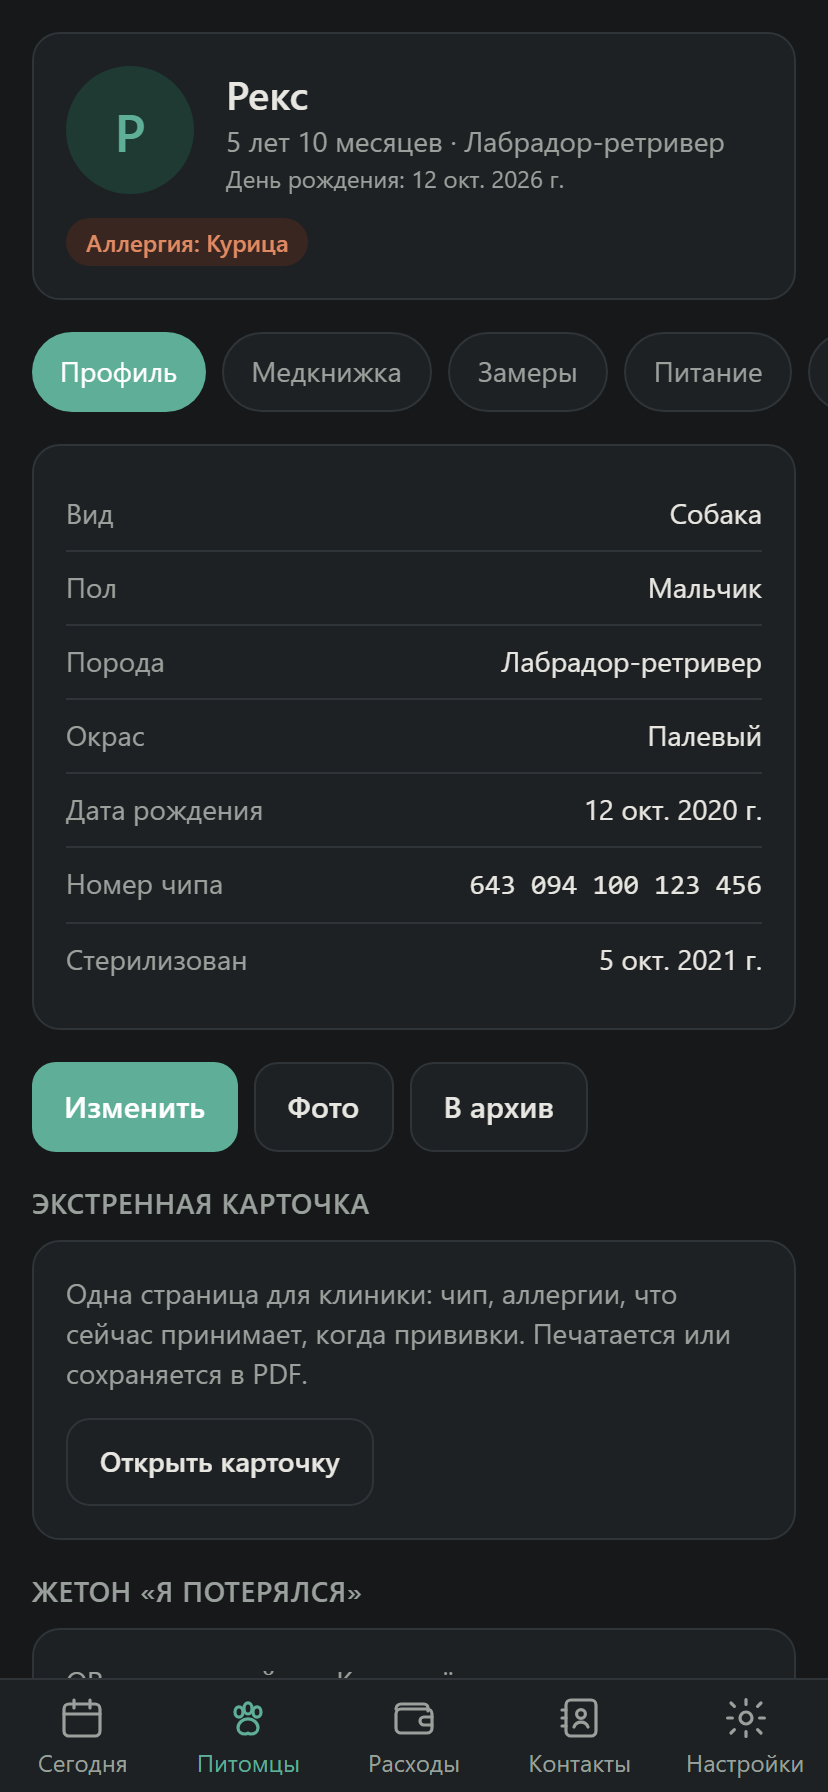
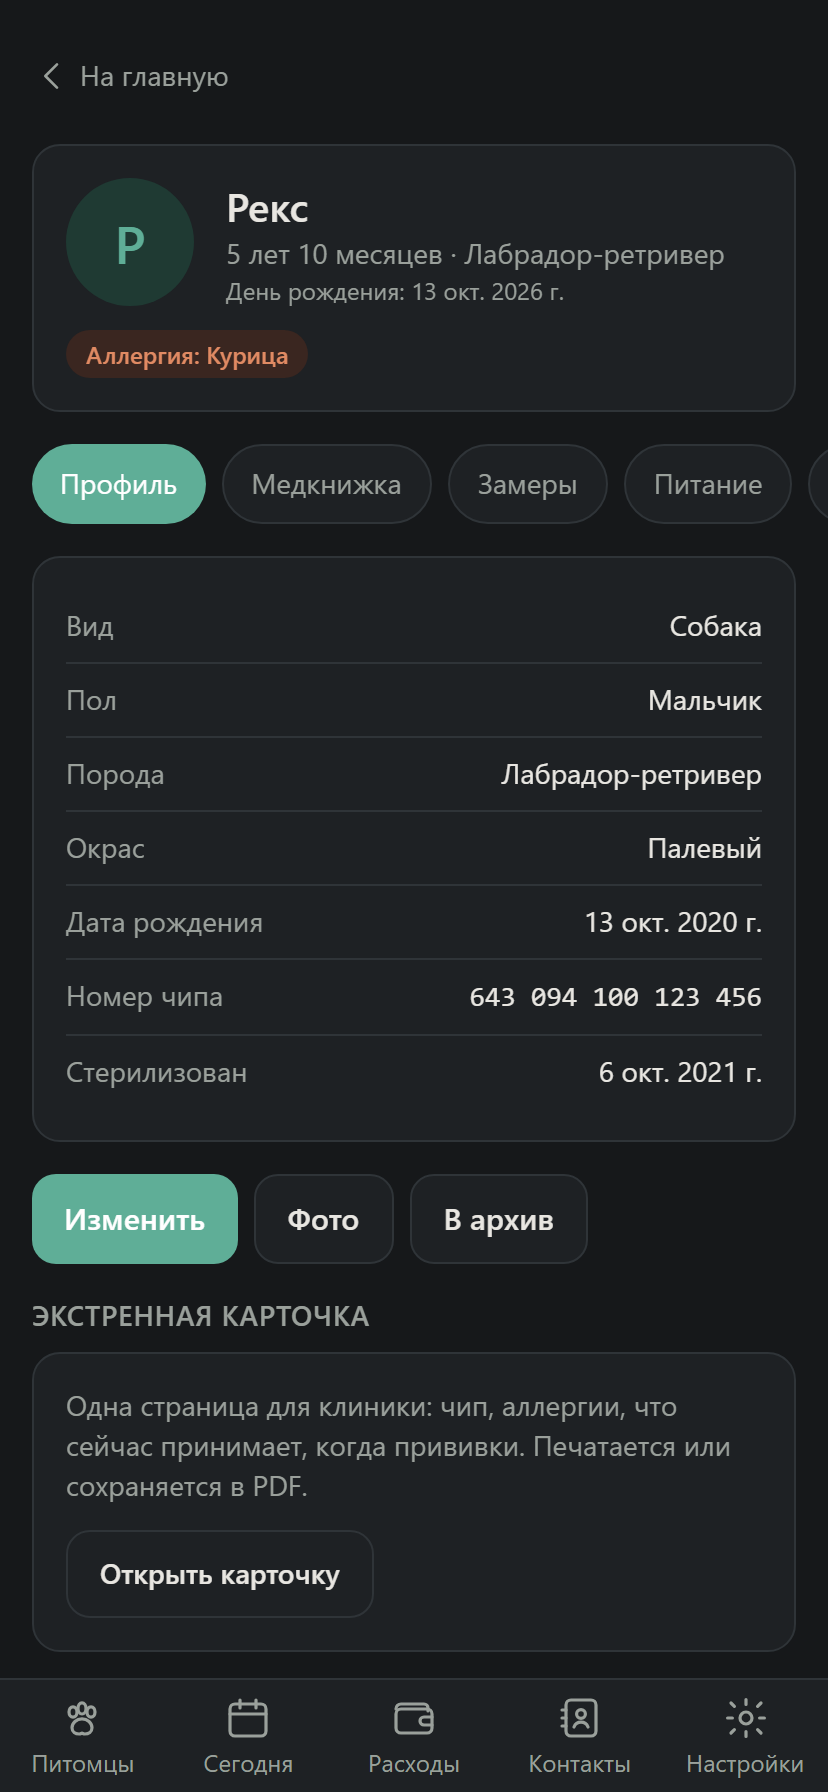
Make the pet list the home screen, with a way back from every other one
The app opened on the agenda, which is a view of the pets rather than the
pets themselves. The list is now at /, the agenda at /agenda, and /pets
redirects so installed shortcuts and bookmarks keep working. The passkey
offer moves with the home screen, and a reminder push opens the agenda
directly, since that is what it is about.

Every other screen — the pet record on all its tabs, Today, Spending,
Contacts, Settings and both print sheets — gets a "Home" link top left.
The bottom bar already has a Pets tab, but three levels into a record it
does not read as "home", and on the print sheets the bar is hidden. On
paper the link is hidden too.

Screenshots re-taken.

Claude-Session: https://claude.ai/code/session_018EMGZ5pTe87ccE7gSSLW4g

diff --git a/apps/web/src/App.tsx b/apps/web/src/App.tsx
@@ -17,8 +17,8 @@ import { CalendarIcon, ContactsIcon, PawIcon, SettingsIcon, WalletIcon } from '.
 
 const TABS: { to: string; key: MessageKey; Icon: (props: { className?: string }) => ReactNode }[] =
   [
-    { to: '/', key: 'nav.agenda', Icon: CalendarIcon },
-    { to: '/pets', key: 'nav.pets', Icon: PawIcon },
+    { to: '/', key: 'nav.pets', Icon: PawIcon },
+    { to: '/agenda', key: 'nav.agenda', Icon: CalendarIcon },
     { to: '/expenses', key: 'nav.expenses', Icon: WalletIcon },
     { to: '/contacts', key: 'nav.contacts', Icon: ContactsIcon },
     { to: '/settings', key: 'nav.settings', Icon: SettingsIcon },
@@ -66,8 +66,11 @@ function SignedInApp(): ReactNode {
       {/* Space at the bottom keeps the last row clear of the navigation bar. */}
       <main className="mx-auto w-full max-w-3xl px-4 pt-4 pb-28">
         <Routes>
-          <Route path="/" element={<AgendaPage />} />
-          <Route path="/pets" element={<PetsPage />} />
+          {/* The pet list is home: it is what the app is about, and where a record starts. */}
+          <Route path="/" element={<PetsPage />} />
+          <Route path="/agenda" element={<AgendaPage />} />
+          {/* The list used to live here; old bookmarks and installed shortcuts still do. */}
+          <Route path="/pets" element={<Navigate to="/" replace />} />
           <Route path="/pets/:petId/print/tag" element={<TagPrintPage />} />
           <Route path="/pets/:petId/print/card" element={<CardPrintPage />} />
           <Route path="/pets/:petId/*" element={<PetPage />} />

diff --git a/apps/web/src/pages/pet/PrintPages.tsx b/apps/web/src/pages/pet/PrintPages.tsx
@@ -10,6 +10,7 @@ import type {
 } from '../../api/types';
 import { useResource, useToday } from '../../app/hooks';
 import { useSession, useUser } from '../../app/session';
+import { BackHome } from '../../components/BackHome';
 import { QrCode } from '../../components/QrCode';
 import { formatAge, formatDate } from '../../lib/format';
 import type { MessageKey } from '../../lib/i18n';
@@ -55,6 +56,8 @@ export function TagPrintPage(): ReactNode {
 
   return (
     <div className="print-sheet mx-auto max-w-md p-8 text-center">
+      {/* On screen only: the print stylesheet drops it, so it never lands on the tag. */}
+      <BackHome className="text-left" />
       {/* Two copies: one for the collar, one for the carrier or the lead. */}
       {[0, 1].map((copy) => (
         <div key={copy} className="mb-10 rounded-2xl border-2 border-black p-5">
@@ -110,6 +113,7 @@ export function CardPrintPage(): ReactNode {
 
   return (
     <div className="print-sheet mx-auto max-w-2xl p-8">
+      <BackHome />
       <header className="mb-4 flex items-baseline justify-between border-b-2 border-black pb-2">
         <h1 className="text-2xl font-bold">{record.name}</h1>
         <p className="text-sm">{formatDate(today, locale)}</p>

diff --git a/apps/web/src/components/BackHome.tsx b/apps/web/src/components/BackHome.tsx
@@ -1,0 +1,25 @@
+import type { ReactNode } from 'react';
+import { Link } from 'react-router-dom';
+import { useSession } from '../app/session';
+import { BackIcon } from '../ui/icons';
+
+/**
+ * The way back to the pet list from every other screen.
+ *
+ * The bottom bar already has a Pets tab, but from three levels into a record it is not
+ * obviously "home", and on the print sheets the bar is hidden altogether. One link, top
+ * left, in the same place on every screen.
+ */
+export function BackHome({ className = '' }: { className?: string }): ReactNode {
+  const { t } = useSession();
+
+  return (
+    <Link
+      to="/"
+      className={`no-print mb-3 inline-flex min-h-11 items-center gap-1 pr-3 text-sm text-muted hover:text-brand ${className}`}
+    >
+      <BackIcon className="size-5" />
+      {t('nav.home')}
+    </Link>
+  );
+}

diff --git a/apps/web/src/pages/SettingsPage.tsx b/apps/web/src/pages/SettingsPage.tsx
@@ -6,6 +6,7 @@ import { useAction, useResource } from '../app/hooks';
 import { useSession, useUser } from '../app/session';
 import { formatDate, optionsIncluding } from '../lib/format';
 import { LOCALES, type MessageKey } from '../lib/i18n';
+import { BackHome } from '../components/BackHome';
 import { NotificationsSection } from './NotificationsSection';
 import { SitterLinksSection } from './SitterLinksSection';
 import { Button, Card, Field, Input, Select, SectionTitle } from '../ui/primitives';
@@ -34,7 +35,10 @@ export function SettingsPage(): ReactNode {
 
   return (
     <div className="space-y-6">
-      <h1 className="text-2xl font-semibold">{t('nav.settings')}</h1>
+      <div>
+        <BackHome />
+        <h1 className="text-2xl font-semibold">{t('nav.settings')}</h1>
+      </div>
 
       <ProfileCard onSaved={refresh} />
 

diff --git a/apps/web/src/pages/PetsPage.tsx b/apps/web/src/pages/PetsPage.tsx
@@ -6,6 +6,7 @@ import { useResource } from '../app/hooks';
 import { useAction } from '../app/hooks';
 import { useSession } from '../app/session';
 import { PetForm, petToValues, valuesToPayload } from '../components/PetForm';
+import { PasskeyOffer } from './PasskeyOffer';
 import { formatAge, initials } from '../lib/format';
 import { Badge, Button, Card, Empty, Sheet } from '../ui/primitives';
 
@@ -47,6 +48,9 @@ export function PetsPage(): ReactNode {
 
   return (
     <>
+      {/* Home is where the offer belongs: the first thing seen after a password sign-in. */}
+      <PasskeyOffer />
+
       <header className="mb-4 flex items-center justify-between">
         <h1 className="text-2xl font-semibold">{t('nav.pets')}</h1>
         {canWrite && <Button onClick={() => setAdding(true)}>{t('action.add')}</Button>}

diff --git a/apps/web/src/pages/ExpensesPage.tsx b/apps/web/src/pages/ExpensesPage.tsx
@@ -4,6 +4,7 @@ import { api } from '../api/client';
 import type { Pet } from '../api/types';
 import { useAction, useResource, useToday } from '../app/hooks';
 import { useSession, useUser } from '../app/session';
+import { BackHome } from '../components/BackHome';
 import { formatDate } from '../lib/format';
 import type { MessageKey } from '../lib/i18n';
 import { Button, Card, Empty, Field, Input, Select, SectionTitle, Sheet } from '../ui/primitives';
@@ -64,6 +65,8 @@ export function ExpensesPage(): ReactNode {
 
   return (
     <>
+      <BackHome />
+
       <header className="mb-4 flex items-center justify-between">
         <h1 className="text-2xl font-semibold">{t('nav.expenses')}</h1>
         {canWrite && <Button onClick={() => setAdding(true)}>{t('action.add')}</Button>}

diff --git a/apps/web/src/pages/ContactsPage.tsx b/apps/web/src/pages/ContactsPage.tsx
@@ -3,6 +3,7 @@ import { api } from '../api/client';
 import type { Contact } from '../api/types';
 import { useAction, useResource } from '../app/hooks';
 import { useSession } from '../app/session';
+import { BackHome } from '../components/BackHome';
 import type { MessageKey } from '../lib/i18n';
 import { Button, Card, Empty, Field, Input, Select, Sheet, TextArea } from '../ui/primitives';
 
@@ -15,6 +16,8 @@ export function ContactsPage(): ReactNode {
 
   return (
     <>
+      <BackHome />
+
       <header className="mb-4 flex items-center justify-between">
         <h1 className="text-2xl font-semibold">{t('nav.contacts')}</h1>
         {canWrite && <Button onClick={() => setAdding(true)}>{t('action.add')}</Button>}

diff --git a/apps/web/src/pages/PetPage.tsx b/apps/web/src/pages/PetPage.tsx
@@ -5,6 +5,7 @@ import { useResource } from '../app/hooks';
 import { useSession } from '../app/session';
 import { formatAge, formatDate } from '../lib/format';
 import type { MessageKey } from '../lib/i18n';
+import { BackHome } from '../components/BackHome';
 import { Badge, Card } from '../ui/primitives';
 import { PetAvatar } from './PetsPage';
 import { DocumentsTab } from './pet/DocumentsTab';
@@ -58,6 +59,8 @@ export function PetPage(): ReactNode {
 
   return (
     <>
+      <BackHome />
+
       <Card className="mb-4">
         <div className="flex items-center gap-4">
           <PetAvatar pet={record} size={64} />

diff --git a/apps/web/src/pages/AgendaPage.tsx b/apps/web/src/pages/AgendaPage.tsx
@@ -16,7 +16,7 @@ import {
   SyringeIcon,
 } from '../ui/icons';
 import { Badge, Button, Card, Empty, SectionTitle } from '../ui/primitives';
-import { PasskeyOffer } from './PasskeyOffer';
+import { BackHome } from '../components/BackHome';
 
 const SOURCE_ICON: Record<string, (props: { className?: string }) => ReactNode> = {
   vaccination: SyringeIcon,
@@ -98,7 +98,7 @@ export function AgendaPage(): ReactNode {
 
   return (
     <>
-      <PasskeyOffer />
+      <BackHome />
 
       <h1 className="mb-4 text-2xl font-semibold">{t('nav.agenda')}</h1>
 

diff --git a/apps/web/src/lib/i18n.ts b/apps/web/src/lib/i18n.ts
@@ -13,6 +13,7 @@ export const LOCALES: Locale[] = ['ru', 'en'];
 const ru = {
   'app.name': 'Питомец',
 
+  'nav.home': 'На главную',
   'nav.agenda': 'Сегодня',
   'nav.pets': 'Питомцы',
   'nav.contacts': 'Контакты',
@@ -428,6 +429,7 @@ export type MessageKey = keyof typeof ru;
 const en: Record<MessageKey, string> = {
   'app.name': 'Pet',
 
+  'nav.home': 'Home',
   'nav.agenda': 'Today',
   'nav.pets': 'Pets',
   'nav.contacts': 'Contacts',

diff --git a/apps/web/src/ui/icons.tsx b/apps/web/src/ui/icons.tsx
@@ -28,6 +28,14 @@ function Icon({ children, className = 'size-5' }: IconProps & { children: ReactN
   );
 }
 
+export function BackIcon(props: IconProps): ReactNode {
+  return (
+    <Icon {...props}>
+      <path d="M15 5l-7 7 7 7" />
+    </Icon>
+  );
+}
+
 export function CalendarIcon(props: IconProps): ReactNode {
   return (
     <Icon {...props}>

diff --git a/apps/web/src/pages/pet/ProfileTab.tsx b/apps/web/src/pages/pet/ProfileTab.tsx
@@ -45,7 +45,7 @@ export function ProfileTab({ pet, onChanged }: { pet: Pet; onChanged: () => void
   const archive = useAction(async () => {
     await api.post(`/pets/${pet.id}/${pet.archivedAt ? 'restore' : 'archive'}`);
     onChanged();
-    if (!pet.archivedAt) navigate('/pets');
+    if (!pet.archivedAt) navigate('/');
   });
 
   return (
